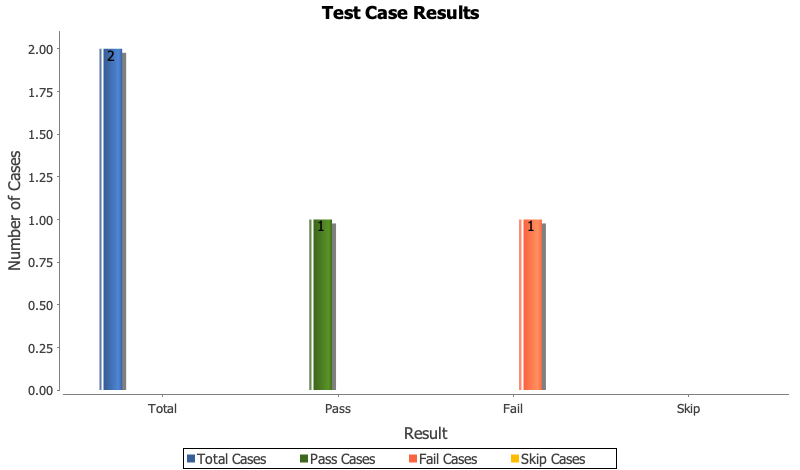
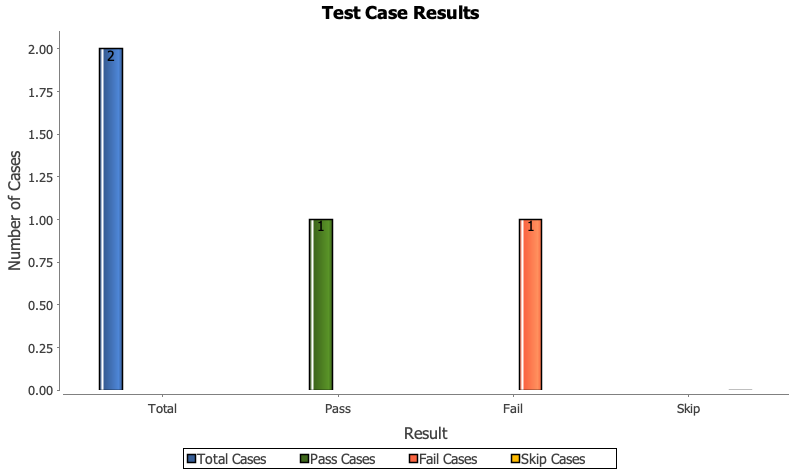
SAT-1 update Jenkinsfile v17

diff --git a/src/main/java/EmailConfig/EmailUtil.java b/src/main/java/EmailConfig/EmailUtil.java
@@ -14,6 +14,8 @@ import org.jfree.chart.plot.CategoryPlot;
 import org.jfree.chart.plot.PiePlot;
 import org.jfree.chart.plot.PlotOrientation;
 import org.jfree.chart.renderer.category.BarRenderer;
+import org.jfree.chart.renderer.category.GradientBarPainter;
+import org.jfree.chart.renderer.category.StandardBarPainter;
 import org.jfree.chart.title.LegendTitle;
 import org.jfree.data.category.DefaultCategoryDataset;
 import org.jfree.data.general.DefaultPieDataset;
@@ -152,7 +154,6 @@ public class EmailUtil {
 
 
     public static void createBarChart(int passCases, int failCases, int skipCases, int totalCases) {
-
         DefaultCategoryDataset dataset = new DefaultCategoryDataset();
 
         dataset.addValue(totalCases, "Total Cases", "Total");
@@ -171,23 +172,35 @@ public class EmailUtil {
                 false // Hiển thị URLs
         );
 
-        // Các thiết lập khác cho biểu đồ
-
-
+        // Thiết lập màu sắc cho biểu đồ
         chart.setBackgroundPaint(Color.WHITE);
-        CategoryPlot plot = (CategoryPlot) chart.getPlot();
+        CategoryPlot plot = chart.getCategoryPlot();
         plot.setBackgroundPaint(Color.WHITE);
         plot.setOutlinePaint(Color.WHITE);
 
-        BarRenderer renderer = (BarRenderer) chart.getCategoryPlot().getRenderer();
-
+        BarRenderer renderer = (BarRenderer) plot.getRenderer();
         renderer.setMaximumBarWidth(5.6);
+
+        // Đặt BarPainter tùy chỉnh cho renderer
+        renderer.setBarPainter(new GradientBarPainter());
+        renderer.setShadowVisible(false);
+        renderer.setDefaultBarPainter(new StandardBarPainter());
+        renderer.setDrawBarOutline(true);
+        renderer.setSeriesOutlinePaint(0, Color.BLACK);
+        renderer.setSeriesOutlinePaint(1, Color.BLACK);
+        renderer.setSeriesOutlinePaint(2, Color.BLACK);
+        renderer.setSeriesOutlinePaint(3, Color.BLACK);
+        renderer.setSeriesOutlineStroke(0, new BasicStroke(1.5f));
+        renderer.setSeriesOutlineStroke(1, new BasicStroke(1.5f));
+        renderer.setSeriesOutlineStroke(2, new BasicStroke(1.5f));
+        renderer.setSeriesOutlineStroke(3, new BasicStroke(1.5f));
 
         renderer.setSeriesPaint(0, Color.decode("#375E97")); // Màu xám cho tổng số test case
         renderer.setSeriesPaint(1, Color.decode("#3F681C")); // Màu xanh lá cây cho test case pass
         renderer.setSeriesPaint(2, Color.decode("#FB6542")); // Màu đỏ cho test case fail
         renderer.setSeriesPaint(3, Color.decode("#FFBB00")); // Màu vàng cho test case skip
 
+        // Các thiết lập khác cho biểu đồ
         LegendTitle legend = chart.getLegend();
         legend.setItemLabelPadding(new RectangleInsets(0, 0, 0, 30)); // Thêm khoảng cách 20px giữa các chú thích
 
@@ -198,11 +211,9 @@ public class EmailUtil {
                 ItemLabelAnchor.OUTSIDE12, TextAnchor.TOP_CENTER, TextAnchor.CENTER, -Math.PI / 2);
         renderer.setPositiveItemLabelPositionFallback(position);
 
-
-        CategoryAxis xAxis = (CategoryAxis) plot.getDomainAxis();
+        CategoryAxis xAxis = plot.getDomainAxis();
         xAxis.setCategoryLabelPositions(CategoryLabelPositions.STANDARD); // Đặt vị trí của nhãn trục
         xAxis.setTickLabelFont(new Font("Tahoma", Font.PLAIN, 13)); // Đặt font chữ cho nhãn trục
-
 
         ValueAxis yAxis = plot.getRangeAxis();
         yAxis.setTickLabelFont(new Font("Tahoma", Font.PLAIN, 13)); // Đặt font chữ cho nhãn trục
@@ -216,7 +227,6 @@ public class EmailUtil {
         chart.getCategoryPlot().getRenderer().setBaseItemLabelsVisible(true);
         chart.getCategoryPlot().getRenderer().setBasePositiveItemLabelPosition(new ItemLabelPosition(
                 ItemLabelAnchor.OUTSIDE12, TextAnchor.TOP_CENTER));
-
 
         File barChartFile = new File("chart.png");
         try {

diff --git a/src/main/java/EmailConfig/SendEmail.java b/src/main/java/EmailConfig/SendEmail.java
@@ -43,7 +43,7 @@ public class SendEmail implements ITestListener {
         String username = "dangthigiang@mobilefolk.com";
         String password = "reddrrnvnzfivmkz";
         String from = "dangthigiang@mobilefolk.com";
-        String[] recipients = {"Khanhthi455@gmail.com"};
+        String[] recipients = {"Khanhthi455@gmail.com", "manh@mobilefolk.com", "toan@mobilefolk.com", "viet@mobilefolk.com", "hoangn@mobilefolk.com"};
 
         Email email;
         email = new Email(host, port, username, password, from, recipients);

diff --git a/src/test/java/showslinger_user/Login_Account.java b/src/test/java/showslinger_user/Login_Account.java
@@ -134,8 +134,7 @@ public class Login_Account extends BaseTest{
 	@Test
 	public void Login_007_AccManagerCompleted() {
 
-		loginPage.loginAccount(emailManager, invalidPassword);
-
+		loginPage.loginAccount(emailManager, validPasswordManager);
 
 		loginPage.clickToLoginButton();
 
